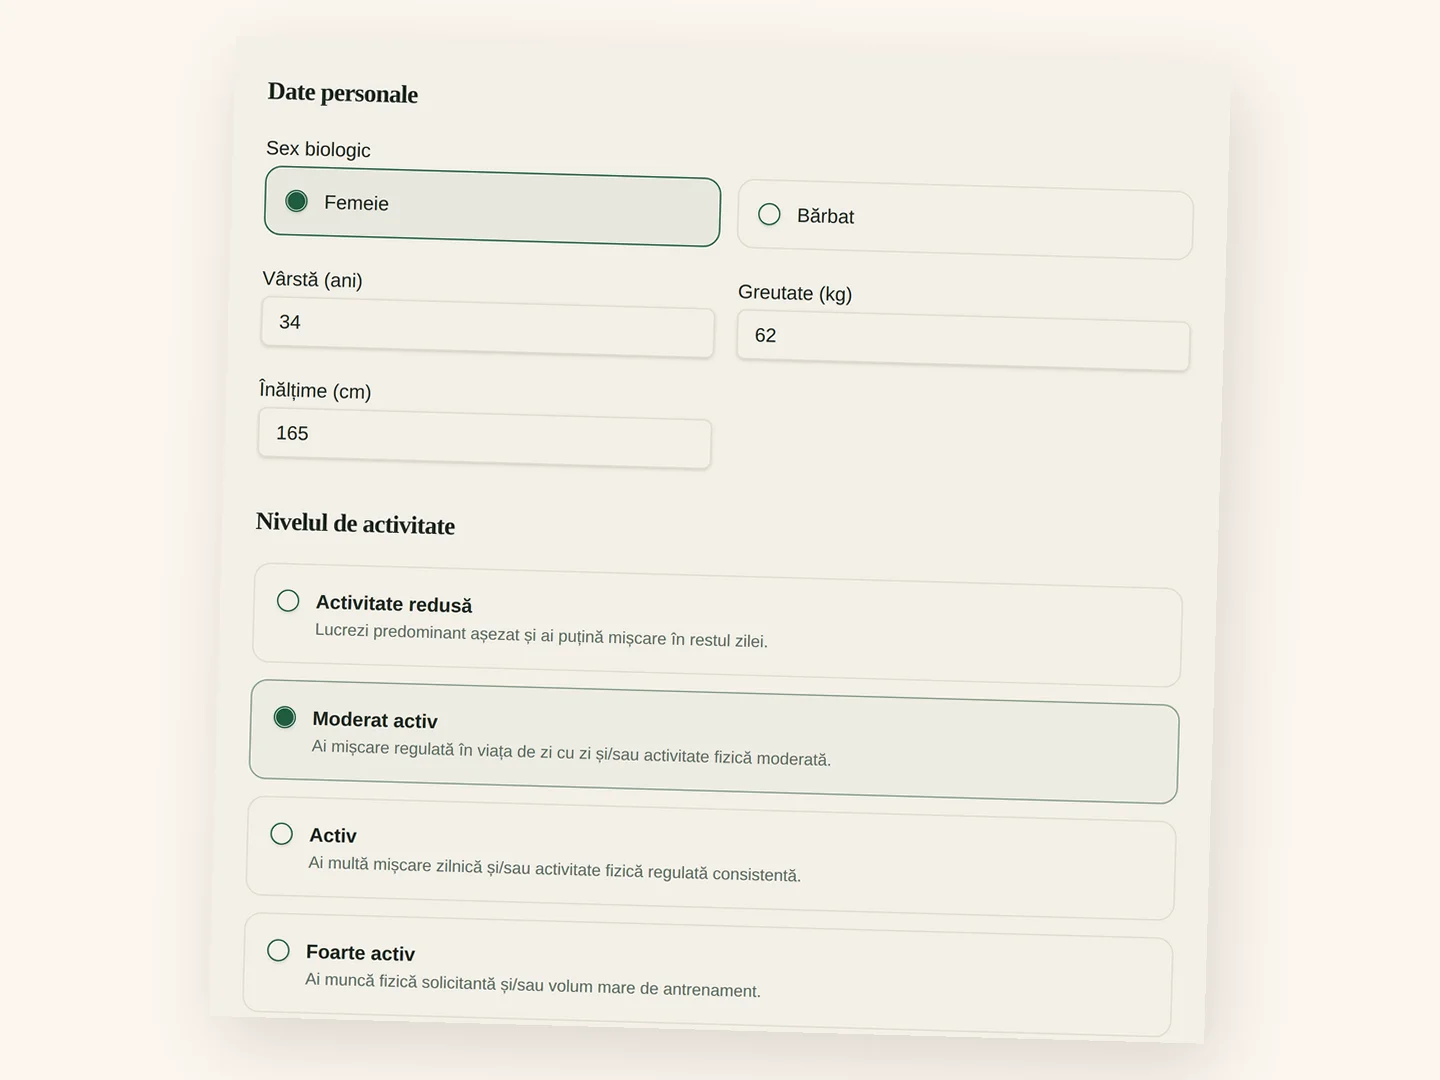
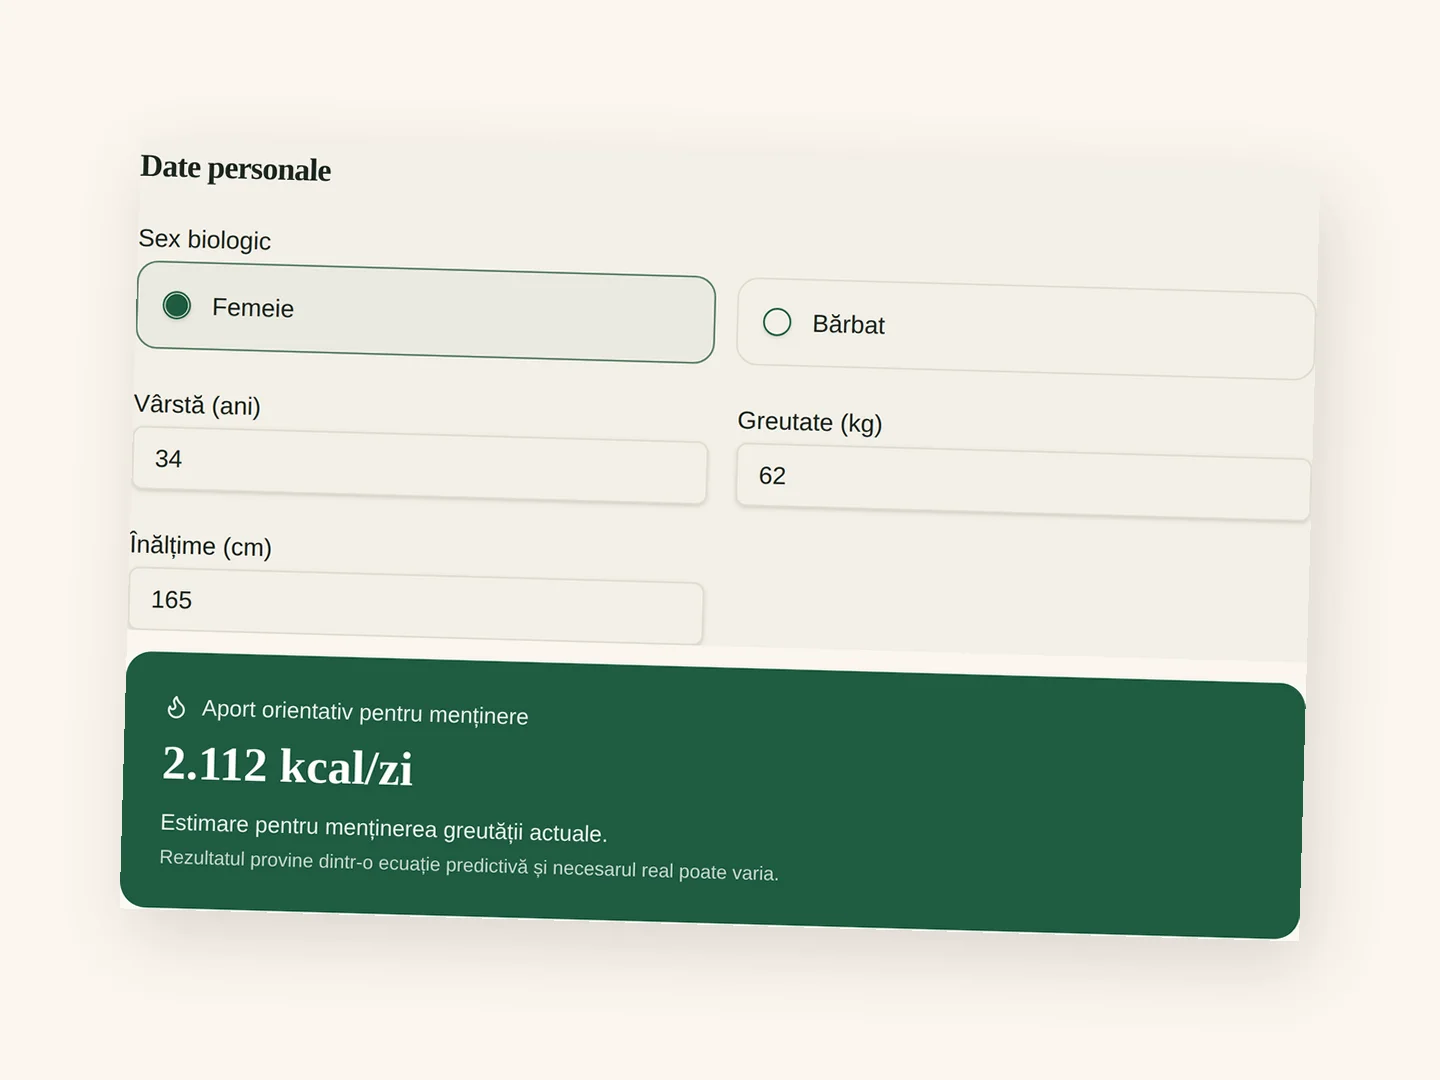
Home: calculator mockup now shows form + caloric result in one frame
Corrects the previous round: the calculator image dropped the caloric
result entirely (form-only), which didn't match the original brief's
"focus pe formular + rezultat caloric" instruction. Rebuilt as a single
flat page (real form fields stacked above the real energy result card,
no overlapping/rotated second element) so it reads as one photographed
page, same as the journal's page 1.

Claude-Session: https://claude.ai/code/session_01DSEq2dNsMu3kQkjZcvwz9Z

diff --git a/src/pages/Home.tsx b/src/pages/Home.tsx
@@ -228,7 +228,7 @@ export default function Home() {
                   <source srcSet="/images/tool-calculator.webp" type="image/webp" />
                   <img
                     src="/images/tool-calculator.jpg"
-                    alt={ro ? "Formularul calculatorului Diet4Life, cu datele personale completate" : "The Diet4Life calculator form, filled in with personal data"}
+                    alt={ro ? "Formularul calculatorului Diet4Life, completat, cu rezultatul caloric afișat" : "The Diet4Life calculator form, filled in, with the calorie result shown"}
                     className="w-full h-auto transition-transform duration-300 group-hover:scale-[1.02]"
                     loading="lazy"
                     width={1440}
